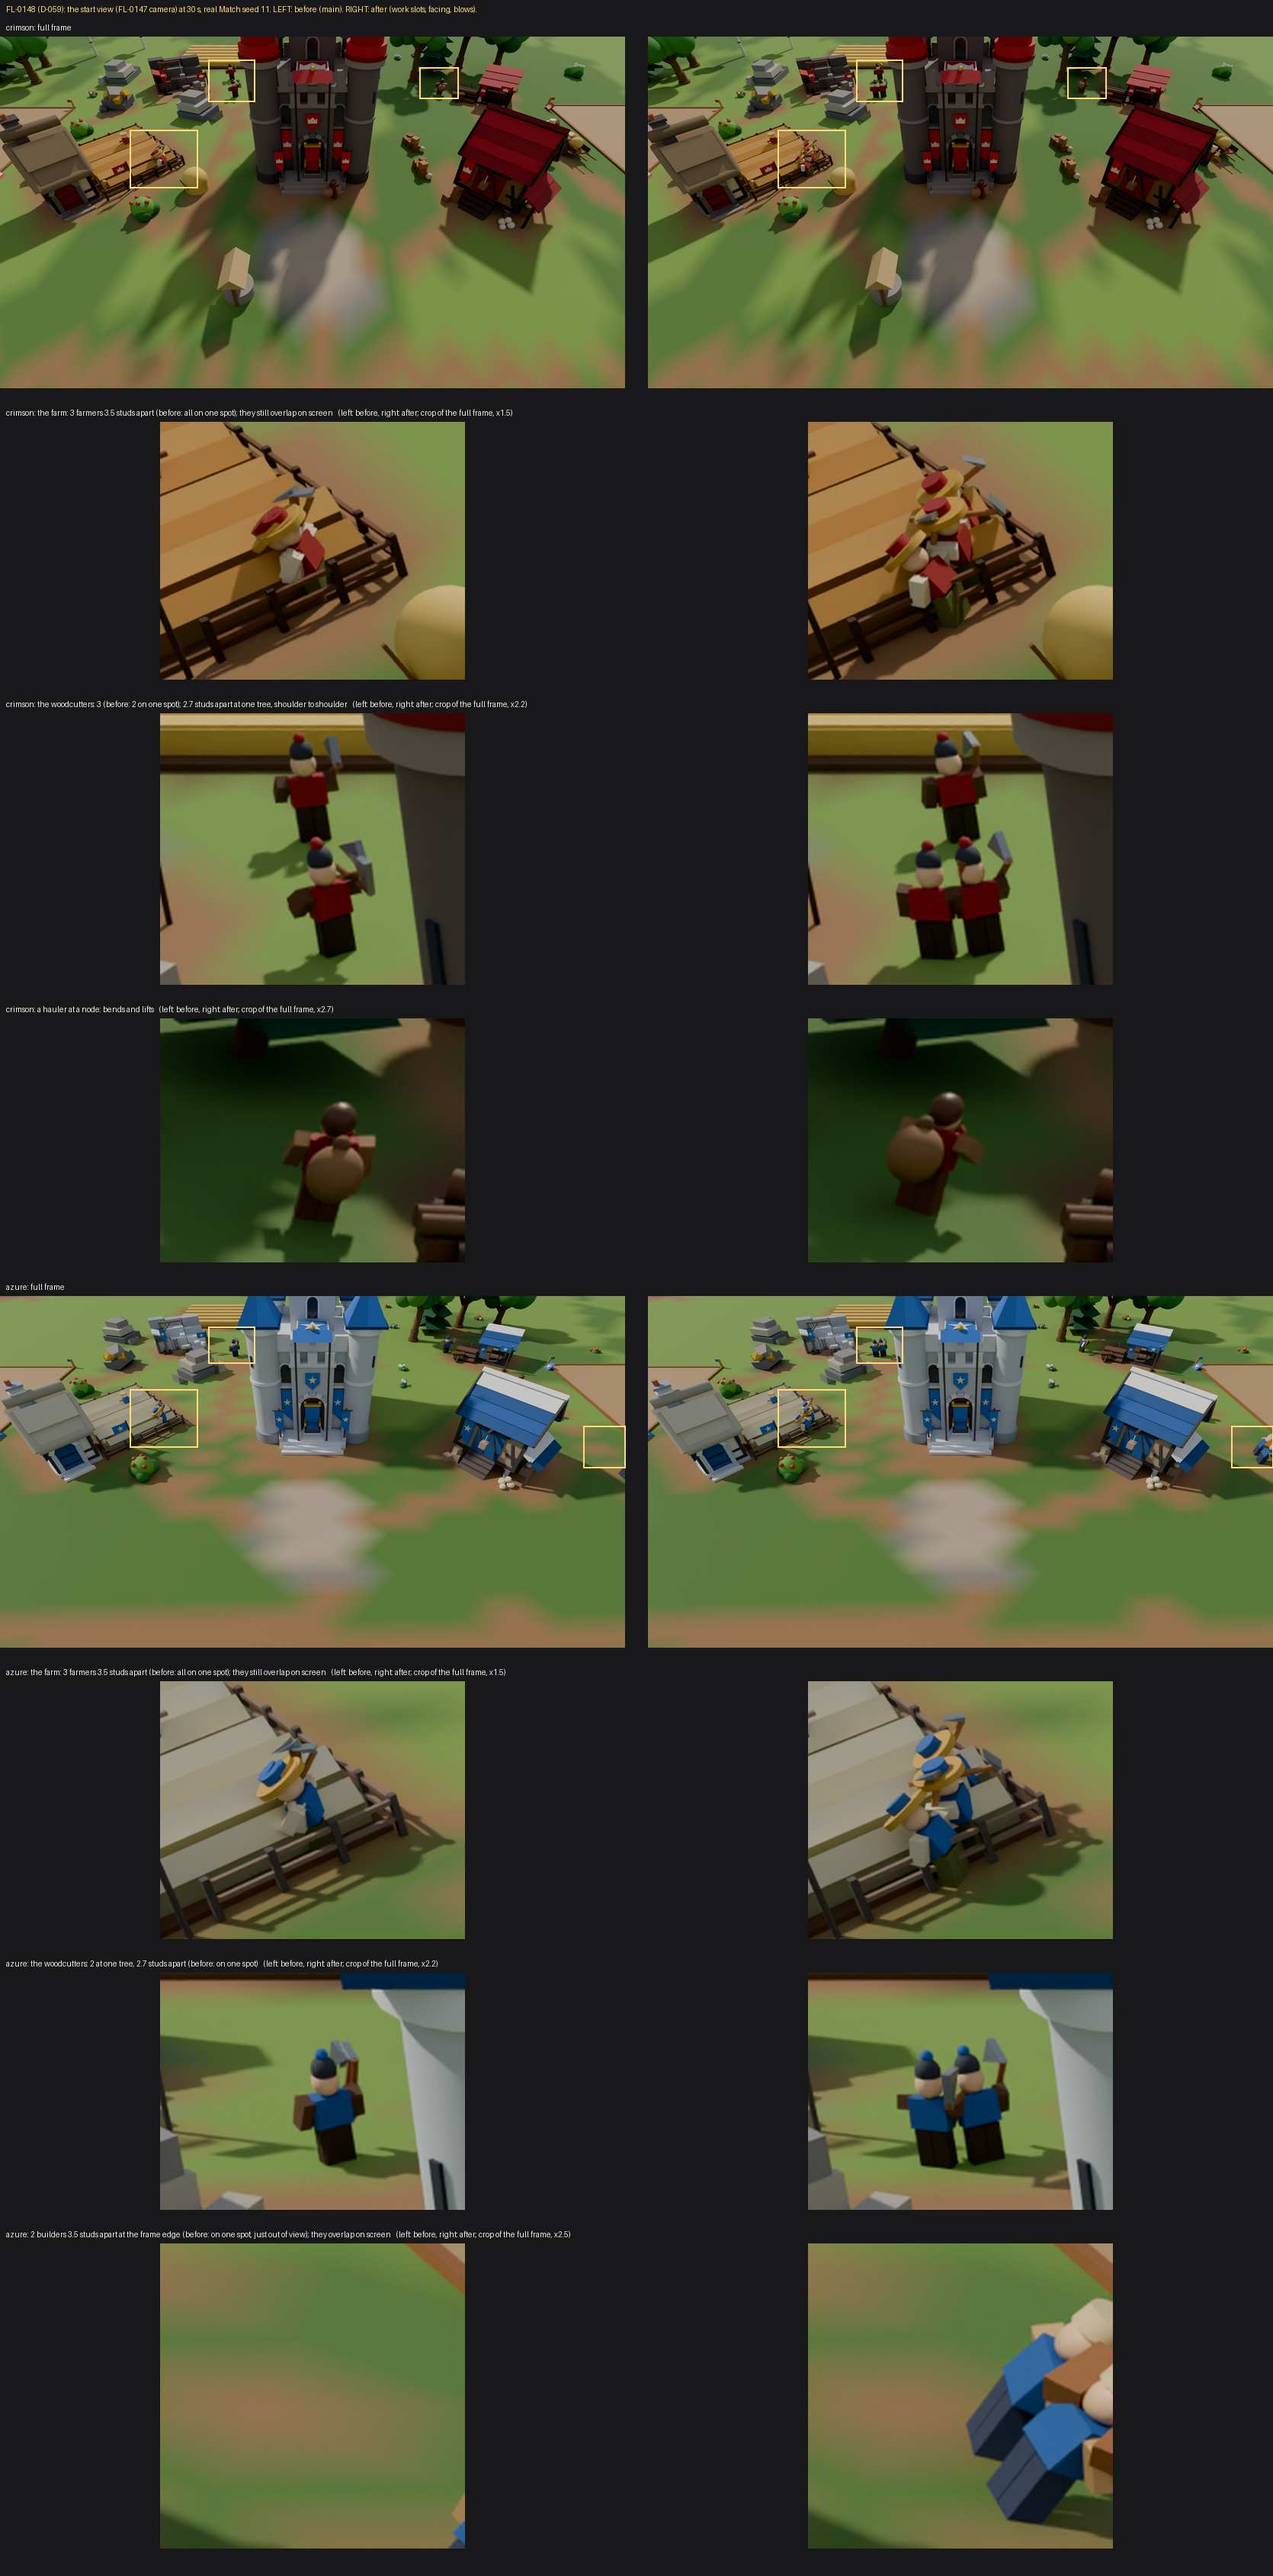
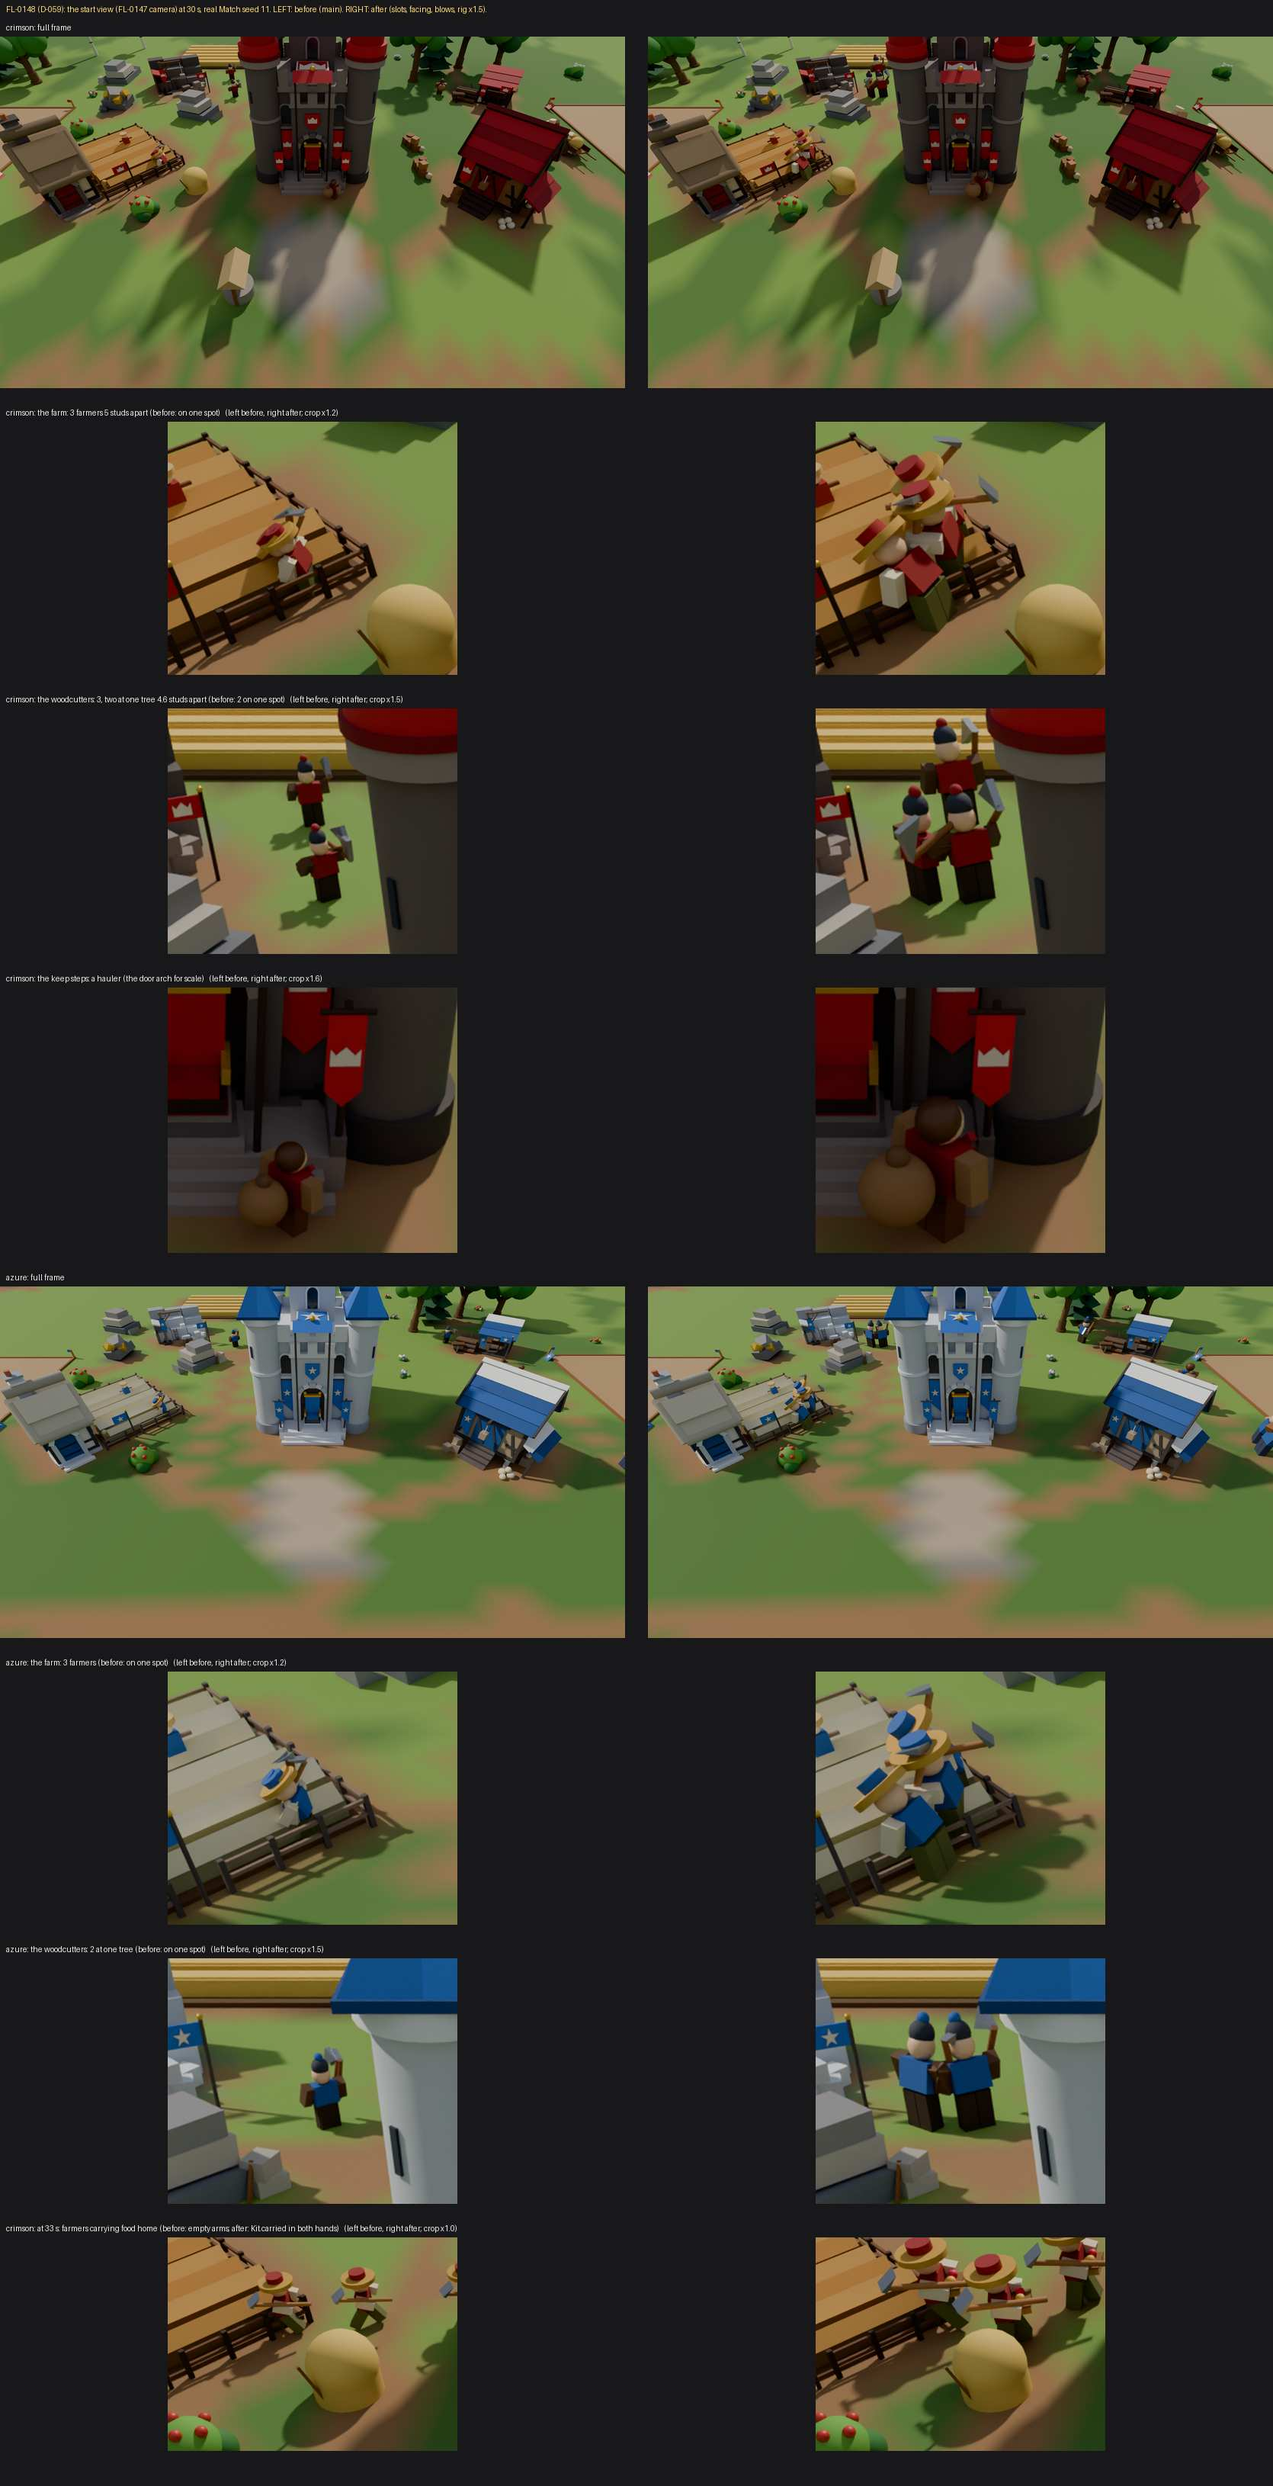
[FORGE-04] FL-0148: sheets at rig 1.5 and 5-stud slots; task evidence, STATUS; FL-0147 log
- fl0148-start-citizens.jpg re-rendered on this code (desktop, crops, the loads at 33 s) and a new
  fl0148-phone-scale.jpg (the phone view; 1.0 / 1.25 / 1.5 side by side). Both opened.
- FL-0148 evidence: check.sh OVERALL PASS on ca7a4cc6, rows 66/66 on da2ff4f6, production within
  0.5 sd on 32 seeds.
- FL-0147: #302 merged; left in REVIEW until Studio E22 (git-and-integration.md step 4).

Claude-Session: https://claude.ai/code/session_01SepDiqLbqgqFcPE9ArTSK5

diff --git a/agents/forge-04/STATUS.md b/agents/forge-04/STATUS.md
@@ -6,13 +6,15 @@ _Maintained by the worker. Keep it short and current. Updated 2026-10-22._
 |---|---|
 | Session branch | one `forge/04-experience-<topic>` branch per PR, each from `main` (never reused after a merge) |
 | Merged since 2026-10-13 | #64 FL-0063 analytics; #82 FL-0027 follow-ups; #98 PACING/EXPERIENCE reviews; #84 + #121 FL-0100 conversation camera and reaction poses (B14); #133 FL-0115 bubbles readable from the air (B15); #134 E9/E10 operator probes; #137 hover and selection outlines; #143 hover-clear spec; #130 back key (gamepad B / Backspace); #142 FL-0121 edit mode and camera (G13.9); #149 FL-0115 B16 off-screen request badges and the cycle key; #123 FL-0103 settings panel; #124 + #146 FL-0108 AnswerCitizen and ConversationAnswered from G9 CitizenAnswered; #144 onboarding hint targets (House only); #157 FL-0121 B17 follow-up (E12 for the Move flow, no camera pan on an edit-mode tap); #147 FL-0063 analytics review items (MilestoneReached, server CelebrationShown, per-server rate share, FirstMatch); #163 FL-0025 completeReward only when a step was server-verified (D-052 (3)); #164 FL-0053 `isTap` and E11 (FORGE-03's back-key wiring, #162); #165 FL-0092 hint targets clear of the no-build areas; #170 FL-0115 `CitizenBubbleIndicatorController:active()` for FORGE-03's Waiting button (#168); #175 FL-0091 consequences read from the air (riot placard, fire on burning buildings, G9 `ConsequenceChanged` notices; B19); #177 FL-0061 PACING slice income targets; #178 + #183 FL-0130 war feedback (notices, timed phase toasts, battle music; hit flash, kneel-and-fade deaths, building shake and collapse, raid ping, spectate camera); #189 FL-0130 camera focus for interest (`Sim.Focus`) and `Match.Spectate`; #191 FL-0075 duel input mode; #193 + #199 FL-0074 crowd director and the arena crowd you hear and read; #202 PACING full-match default; #203 + #205 + #212 FL-0130 mutation rows and the war-bus spec; #211 FL-0135 client Kit asset folder (imported mesh citizens on clients); #221 FL-0074 the crowd reads DuelService's Arena.Events relay; #231 FL-0074 arena intro camera pass, arena music and stingers; #235 FL-0130 close-out (siege alert, siege beacon); #236 FL-0137 full-match tips (war, siege, raid, ram, Crown Arena); #237 FL-0074 stand figures (CrowdFiguresController; `Pacing.arena` vote/loadout/intro/crowning from config Arena); #239 FL-0121 edge-pan follows the held finger, FL-0115 badges clear the support chip, FL-0130 #235 lows; #248 FeedbackKit.spec test id for FORGE-02's FL-0136; #256 FL-0074 B22 crowd fixes (the crowd follows DuelController, Kit's seat grid, the stands built 24 figures a step); #259 FL-0139 a duel champion holds `Arena.ring.walkSpeed` and cannot sprint, plus FL-0075 duel input reports `act()` and retries a refused blockEnd; #266 FORGE-00's g11k crowd notes (CrowdStage follows DuelController, so a mid-duel joiner gets the music and the ring shot; a reaction never seats figures) and FORGE-07's #259 lows; #269 FL-0141 duel action animations (self-made poses on both champions from DuelController's events, your own presses at once; gate 8p) and #278 its follow-up (FORGE-07's lows as spec pins; gate 8r); #273 FL-0143 building damage states (FeedbackController writes `Damage` and re-dresses a building the server moves) and #284 D-059 camera framing (start zoom 70, FOV 55, the yard in view; gate 8t); #293 FL-0141 follow-up 2 (Called Warning raise, the winded sag, crowning late join; gate 8x); #302 FL-0147 start camera (the first view looks back across the yard at the keep; gate 8y); #310 FL-0141 follow-up 3 (the shield style; gate 9, after #299 so the AI takes it) |
-| Open PRs | This PR (#316): FL-0148 (P0, D-059), the citizens at the start frame look alive: work slots, blows that read at zoom 70, facing the work, carried goods (FORGE-01's files under the one-PR exception `forge04-citizens-alive`) |
-| Next | FL-0141: after B22.1, a leg cycle so the AI figure does not glide; FORGE-01's `lightWindup`/`dodgeStart`/`blocked` cues when they land (the opponent's light and dodge sooner than the 0.2 s snapshot); the shield spec can now build the AI figure through `Arena/Figures` itself (#299 is on main). FL-0147: the owner's B22.2 look at the first view (FORGE-00: the keep's spires may touch the top edge). FL-0148: the owner's look at E23; farmers stand 3.5 studs apart, because a wider spacing cost food. FL-0074: key citizens on the stand rails once FORGE-01's key-citizen data reaches the client. FL-0130: the hit flash waits on FORGE-01's G4 `hit` cue and a `shot` event. When the operator has run B14 to B23 in Studio: conversation camera and interaction polish from what they saw (the user's bubble feedback) |
-| Last verified check | FORGE-05 gate 8y merged #302. Mine: this PR's check.sh OVERALL PASS on a156247f (main 06230ecd merged in; game-001 2957/0, framework 588/0), FL-0148 41/41, production unchanged on 32 seeds (all resources +0.0 %); #310 check.sh OVERALL PASS on 70fc6905 (game-001 2914/0, framework 587/0), FL-0141 130/130. All headless |
+| Open PRs | This PR (#316): FL-0148 (P0, D-059), the citizens at the start frame look alive: work slots 5 studs apart, blows that read at zoom 70, facing the work, carried goods, and every rig drawn 1.5x (`EntityController.RIG_SCALE`, FORGE-00 17:04). FORGE-01's files under the one-PR exception `forge04-citizens-alive`. Waits for #317, then main merged in and FORGE-05's gate 13 |
+| Next | The onboarding card move (FORGE-03's start-card handoff): docked bottom centre at the start frame, a step-3 rule so it never covers the PlacementBar's Place (or Skip over it on a phone) or the phone build menu, `_reserve` following the card. Then B22.4 job glyphs (prototype; icon art with FORGE-03). FL-0141: FORGE-01's `lightWindup`/`dodgeStart`/`blocked` cues are on main (#311): wire them into DuelPoses, and fix the stale "FL-0140 waits" text in FeedbackDuelController and E21 (FORGE-00); the AI figure's leg cycle after B22.1. Arena (FORGE-03's #324 notes): hold the ring shot through `crowning`; a sting on FORGE-01's coming `qualify` stage (FORGE-03's banner carries the text). FL-0147: the owner's B22.2 look at the first view (the keep's spires vs the top edge). FL-0148: the owner's look at E23 at 1.5. FL-0074: key citizens on the stand rails once FORGE-01's key-citizen data reaches the client. FL-0130: the hit flash waits on FORGE-01's G4 `hit` cue and a `shot` event. When the operator has run B14 to B23 in Studio: conversation camera and interaction polish from what they saw (the user's bubble feedback) |
+| Last verified check | This PR: check.sh OVERALL PASS on ca7a4cc6 (main e8a82c51 merged in; game-001 3052/0, framework 588/0, selene 0, stylua 736), sim specs 1158/0, FL-0148 rows 66/66 CAUGHT on da2ff4f6, production 32 seeds within 0.5 sd (all resources -0.3 %), KitCharacter 59/59 with #317 (92f0b664) merged in. #310 check.sh OVERALL PASS on 70fc6905 (merged in gate 9). All headless |
 | Blockers | None of mine. Studio evidence waits for the local Studio operator (E1, E2, E6, E8 step 13, E9 to E22, E12 step 7, E15 step 7, E16 step 8); nothing here is claimed as Studio-verified |
-| Needs from others | FORGE-07: review of this PR (FORGE-01's owner review is in, no blockers); config Support Called Warning text and per-tier `uses` (FORGE-00's ask); the duel cues `lightWindup`, `dodgeStart`, `blocked` on `hit`; the G4 `hit` cue and a `shot` event; key-citizen data on the client for the stand rails. User: sounds on the pick list (none urgent beyond P0/P1) |
+| Needs from others | FORGE-07: the delta review of this PR from d93dd18c (FORGE-01's owner review: no blockers, its lows fixed). FORGE-05: gate 13 once #317 is in. FORGE-01: the two-builders Simulation.spec test hangs on when a gatherer re-plans (a later item via FORGE-00). Config Support Called Warning text and per-tier `uses` (FORGE-00's ask); the G4 `hit` cue and a `shot` event; key-citizen data on the client for the stand rails. User: sounds on the pick list (none urgent beyond P0/P1) |
 
 ## Last report
+- FL-0148 (this PR) at rig 1.5 (FORGE-00 17:04): the slots are 5 studs apart, not 3.5 x 1.5, because 5.25 trips FORGE-01's two-builders timing test (4.6/5.0 pass, 4.8/5.25/5.5 fail). Production within 0.5 sd on 32 seeds; working citizens with a neighbour within 1.5 studs 56 % -> 0.1 %. The pick and the hammer tip forward at the top of a blow, so they clear #317's bigger hats. Sheets re-rendered at 1.5 and opened: the citizens read and carry their loads, but the farm trio still stacks along the camera's line of sight, and #317's farmer brims touch at 5 studs (owner notes, FORGE-00).
+- FL-0147: #302 merged; left in REVIEW until Studio E22 (G6), per git-and-integration.md step 4.
 - Gate 8y (2026-10-22): #302 (FL-0147 start camera) merged. Gate 9: #310 (FL-0141 follow-up 3, the shield style) merged.
 - FL-0148 open (this PR): at 30 s, 56 % of working citizens had a neighbour within 1.5 studs; now 0.1 %. Facing at work: worst 55 deg, now 0. Production unchanged (32 seeds). A 20 deg minimum turn on big targets was tried and dropped: food -1.0 %. Before/after renders opened.
 - Mistake: on #284 my PR text quoted "11/11 CAUGHT" from a rows run made before a test rename, and two rows' expected names went stale. FORGE-07 found it. Lesson: after renaming a test, run the task's full rows file and quote the runner's count for the head.

diff --git a/production/tasks/FL-0148-citizens-alive-at-the-start-frame-work-slots-rea.md b/production/tasks/FL-0148-citizens-alive-at-the-start-frame-work-slots-rea.md
@@ -10,6 +10,7 @@ created: 2026-10-22
 updated: 2026-10-22
 depends_on: []
 evidence:
+  - "rig 1.5 (FORGE-00 17:04), slots 5 studs: check.sh OVERALL PASS on ca7a4cc6 (main e8a82c51 merged in): game-001 3052/0, framework 588/0, selene 0, stylua 736 files, both builds and place checks PASS; sim specs 1158/0 at 5 studs (5.25 trips Simulation.spec's two-builders timing test: 4.6/5.0 pass, 4.8/5.25/5.5 fail); FL-0148 rows 66/66 CAUGHT on da2ff4f6 (0 stale over 1005 rows); production 32 seeds main e8a82c51 vs head: food +0.1 %, wood -0.8 %, all resources -0.3 %, every measure under 0.5 sd; workers within 1.5 studs 56 % -> 0.1 %, median nearest neighbour 0.97 -> 4.98 studs; KitCharacter 59/59 on main, main + #317 (92f0b664) and #317's tool pass; sheets games/game-001/design/pacing/citizens/fl0148-start-citizens.jpg and fl0148-phone-scale.jpg opened (headless Blender, not Studio)"
   - "check.sh OVERALL PASS on a156247f (main 06230ecd merged in): game-001 2957/0, framework 588/0, selene 0, stylua 729 files, both builds and place checks PASS; FL-0148 rows 42/42 CAUGHT; production 32 seeds main vs head: all resources +0.0 % (sd 1.1 %), food +0.6 %, wood -0.8 %, stone -1.0 %, gold +0.6 %; workers within 1.5 studs 56 % -> 0.1 %; sheet games/game-001/design/pacing/citizens/fl0148-start-citizens.jpg (headless Blender, not Studio)"
 ---
 
@@ -50,3 +51,4 @@ At the default start view (FL-0147), the ruler sees their citizens as separate, 
 - 2026-10-22 forge-00: SPECIFIED → READY. Filed for FORGE-04's D-059 PR
 - 2026-10-22 forge-00: READY → BUILDING. FORGE-04 building on forge/04-experience-citizen-motion
 - 2026-10-22 forge-04: BUILDING → REVIEW. PR open: work slots (3.5 studs, production unchanged on 32 seeds), facing, blows that read at zoom 70 (hoe to 105 deg), carried goods, blow start at phase 0; before/after sheet opened and judged
+- 2026-10-22 forge-04: REVIEW (new head). Rig drawn 1.5x (FORGE-00 17:04), slots 5 studs apart (5.25 trips FORGE-01's two-builders timing test), the pick and hammer tip forward (clear of #317), FORGE-01's L1-L3 and FORGE-07's L1-L4 fixed; sheets re-rendered at 1.5 and opened

diff --git a/production/tasks/FL-0147-start-camera-framing-keep-towers-fill-the-frame-.md b/production/tasks/FL-0147-start-camera-framing-keep-towers-fill-the-frame-.md
@@ -53,3 +53,4 @@ When a ruler presses Play, the first overview frame shows their village and some
 - 2026-10-22 forge-00: SPECIFIED → READY. Filed from #296 start-view render; P0 under D-059
 - 2026-10-22 forge-04: READY → BUILDING. FORGE-04 started: A/B/C start cameras measured on FORGE-02's world dump (12 start citizens) and rendered with render_world.py; B (looking back at the keep from 20 studs before the throne) chosen
 - 2026-10-22 forge-04: BUILDING → REVIEW. PR open on forge/04-experience-start-camera: the first view looks back across the yard at the keep from 20 studs before the throne (startAhead 20, startTurn 180; FORGE-00 approved B at 20). A/B/C measured and rendered for crimson and azure (design/pacing/camera/fl0147-start-views.jpg)
+- 2026-10-22 forge-04: #302 merged in gate 8y (cee24f67). Left in REVIEW: Studio E22 (G6) has not run, and git-and-integration.md step 4 keeps a task in REVIEW while only G6 is pending; ACCEPTED is FORGE-05/FORGE-00's call at their reconcile
